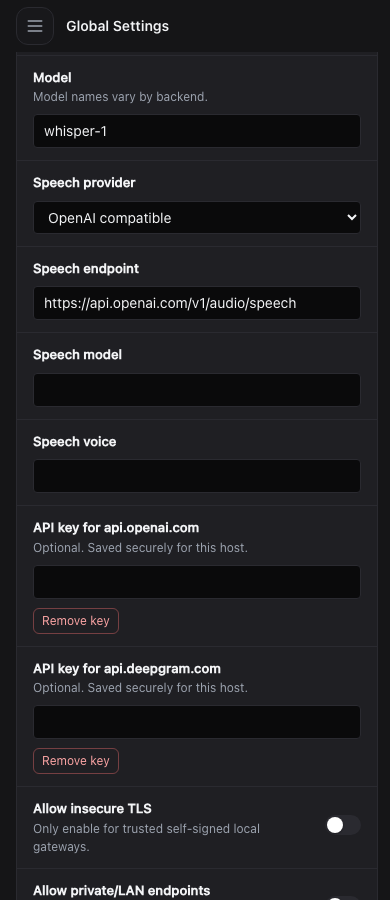
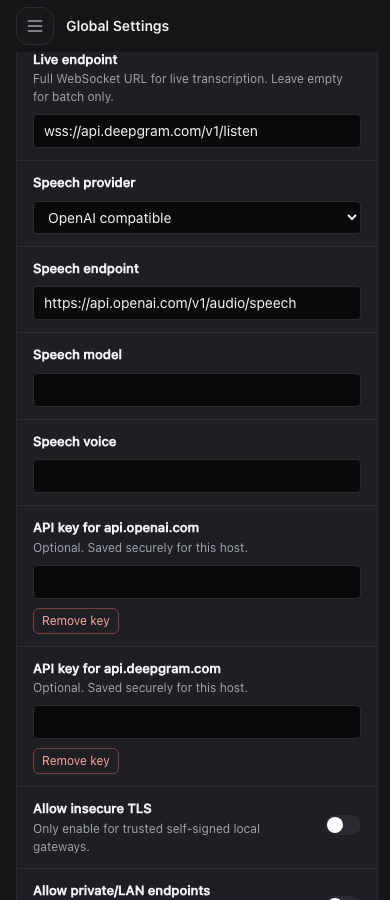
fix: group recorded model with batch settings
Make the model clearly belong to recorded voice.

Changed region(s): [[0.0615, 0.0622, 0.6769, 0.1556], [0.8, 0.0622, 0.8615, 0.0933], [0.7077, 0.0622, 0.7692, 0.0933]]

diff --git a/packages/web/src/components/settings/VoiceSettings.tsx b/packages/web/src/components/settings/VoiceSettings.tsx
@@ -314,6 +314,23 @@ export function VoiceSettings() {
           />
         </SettingsRow>
 
+        <SettingsRow
+          label="Recorded model"
+          description="Model names vary by backend."
+          layout="stacked"
+        >
+          <input
+            type="text"
+            aria-label="Recorded model"
+            value={recorded.model}
+            disabled={saving}
+            onInput={(event) => patchPart('recorded', 'model', event.currentTarget.value)}
+            onBlur={(event) => savePartOnBlur('recorded', 'model', event.currentTarget.value)}
+            placeholder="whisper-1"
+            class={FORM_CONTROL_CLASS}
+          />
+        </SettingsRow>
+
         <SettingsRow label="Live provider" layout="stacked">
           <select
             aria-label="Live provider"
@@ -342,18 +359,6 @@ export function VoiceSettings() {
             onInput={(event) => patchPart('live', 'endpoint', event.currentTarget.value)}
             onBlur={(event) => savePartOnBlur('live', 'endpoint', event.currentTarget.value)}
             placeholder="wss://asr.example.com/v1/listen"
-            class={FORM_CONTROL_CLASS}
-          />
-        </SettingsRow>
-
-        <SettingsRow label="Model" description="Model names vary by backend." layout="stacked">
-          <input
-            type="text"
-            value={recorded.model}
-            disabled={saving}
-            onInput={(event) => patchPart('recorded', 'model', event.currentTarget.value)}
-            onBlur={(event) => savePartOnBlur('recorded', 'model', event.currentTarget.value)}
-            placeholder="whisper-1"
             class={FORM_CONTROL_CLASS}
           />
         </SettingsRow>
